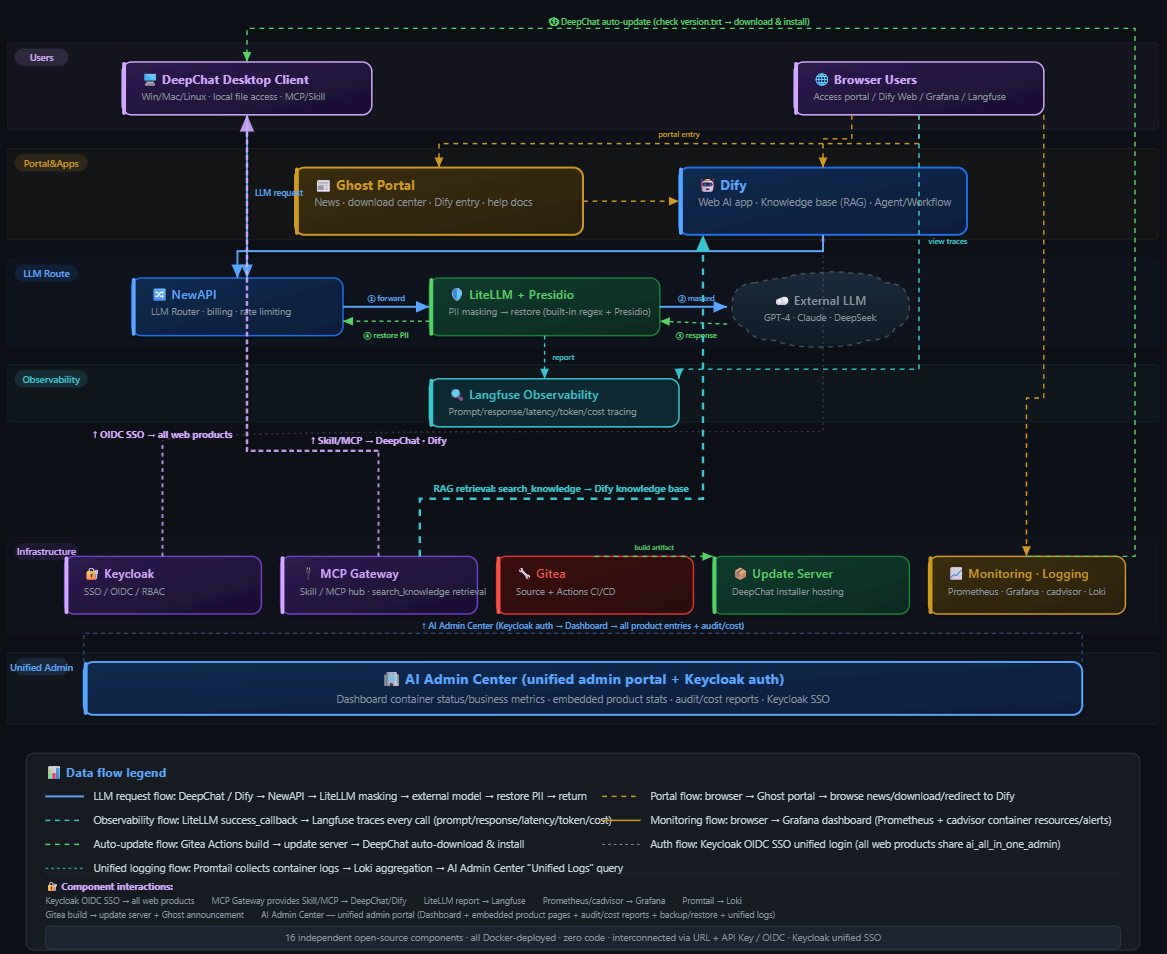
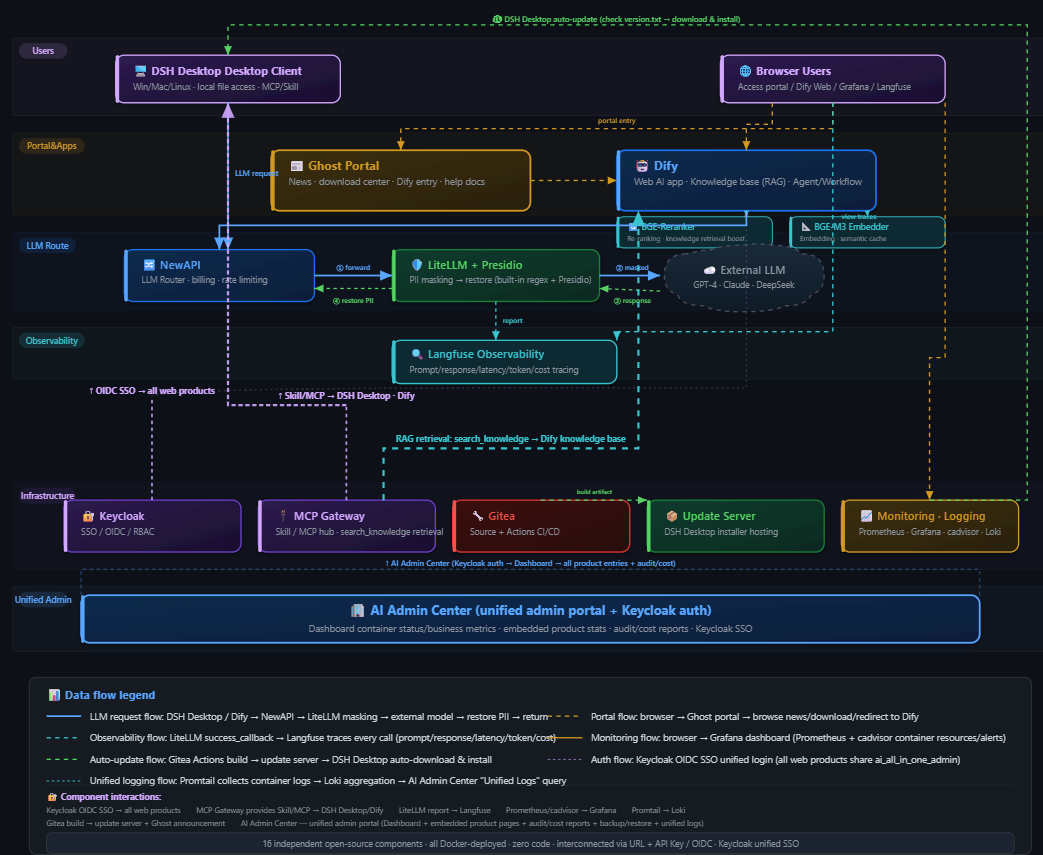
v1.07: BGE-Reranker + BGE-M3 Embedder, replace Ollama, update all docs

diff --git a/windows/windows-deploy-guide-v2.en.html b/windows/windows-deploy-guide-v2.en.html
@@ -210,10 +210,15 @@ When everything is done, run end-to-end tests: all containers Up, Keycloak SSO l
   <text x="720" y="183" fill="#58a6ff" font-size="14" font-weight="700">🤖 Dify</text>
   <text x="720" y="200" fill="#8b949e" font-size="11">Web AI app · Knowledge base (RAG) · Agent/Workflow</text>
   <!-- BGE-Reranker (Dify knowledge-base re-ranking) -->
-  <g filter="url(#sh)"><rect x="760" y="237" width="180" height="36" rx="8" fill="#0d2b33" stroke="#39c5cf" stroke-width="1"/><rect x="760" y="237" width="3" height="36" rx="2" fill="#39c5cf"/></g>
-  <text x="772" y="252" fill="#39c5cf" font-size="10" font-weight="600">🔄 BGE-Reranker</text>
-  <text x="772" y="265" fill="#8b949e" font-size="8">Re-ranking · knowledge retrieval boost</text>
+  <g filter="url(#sh)"><rect x="700" y="237" width="180" height="36" rx="8" fill="#0d2b33" stroke="#39c5cf" stroke-width="1"/><rect x="700" y="237" width="3" height="36" rx="2" fill="#39c5cf"/></g>
+  <text x="712" y="252" fill="#39c5cf" font-size="10" font-weight="600">🔄 BGE-Reranker</text>
+  <text x="712" y="265" fill="#8b949e" font-size="8">Re-ranking · knowledge retrieval boost</text>
   <path d="M 850 230 L 850 237" fill="none" stroke="#39c5cf" stroke-width="1" stroke-dasharray="3" marker-end="url(#at)"/>
+  <!-- BGE-M3 Embedder (semantic cache + KB vectorization) -->
+  <g filter="url(#sh)"><rect x="900" y="237" width="180" height="36" rx="8" fill="#0d2b33" stroke="#39c5cf" stroke-width="1"/><rect x="900" y="237" width="3" height="36" rx="2" fill="#39c5cf"/></g>
+  <text x="912" y="252" fill="#39c5cf" font-size="10" font-weight="600">📐 BGE-M3 Embedder</text>
+  <text x="912" y="265" fill="#8b949e" font-size="8">Embedding · semantic cache</text>
+  <path d="M 990 230 L 990 237" fill="none" stroke="#39c5cf" stroke-width="1" stroke-dasharray="3" marker-end="url(#at)"/>
 
   <!-- ====== Layer 3: LLM Routing ====== -->
   <g filter="url(#sh)"><rect x="130" y="275" width="220" height="60" rx="10" fill="url(#g-blue)" stroke="#1f6feb" stroke-width="1.5"/><rect x="130" y="275" width="4" height="60" rx="2" fill="#58a6ff"/></g>

diff --git a/windows/windows-deploy-guide-v2.html b/windows/windows-deploy-guide-v2.html
@@ -262,6 +262,16 @@
   <g filter="url(#sh)"><rect x="700" y="160" width="300" height="70" rx="10" fill="url(#g-blue)" stroke="#1f6feb" stroke-width="2"/><rect x="700" y="160" width="4" height="70" rx="2" fill="#58a6ff"/></g>
   <text x="720" y="183" fill="#58a6ff" font-size="14" font-weight="700">🤖 Dify</text>
   <text x="720" y="200" fill="#8b949e" font-size="11">Web AI 应用 · 知识库(RAG) · Agent/Workflow</text>
+  <!-- BGE-Reranker (Dify 知识库重排序) -->
+  <g filter="url(#sh)"><rect x="700" y="237" width="180" height="36" rx="8" fill="#0d2b33" stroke="#39c5cf" stroke-width="1"/><rect x="700" y="237" width="3" height="36" rx="2" fill="#39c5cf"/></g>
+  <text x="712" y="252" fill="#39c5cf" font-size="10" font-weight="600">🔄 BGE-Reranker</text>
+  <text x="712" y="265" fill="#8b949e" font-size="8">Rerank 重排序 · 知识库检索增强</text>
+  <path d="M 850 230 L 850 237" fill="none" stroke="#39c5cf" stroke-dasharray="3" stroke-width="1" marker-end="url(#at)"/>
+  <!-- BGE-M3 Embedder (语义缓存 + 知识库向量化) -->
+  <g filter="url(#sh)"><rect x="900" y="237" width="180" height="36" rx="8" fill="#0d2b33" stroke="#39c5cf" stroke-width="1"/><rect x="900" y="237" width="3" height="36" rx="2" fill="#39c5cf"/></g>
+  <text x="912" y="252" fill="#39c5cf" font-size="10" font-weight="600">📐 BGE-M3 Embedder</text>
+  <text x="912" y="265" fill="#8b949e" font-size="8">Embedding 向量化 · 语义缓存</text>
+  <path d="M 990 230 L 990 237" fill="none" stroke="#39c5cf" stroke-dasharray="3" stroke-width="1" marker-end="url(#at)"/>
 
   <!-- ====== Layer 3: LLM Routing ====== -->
   <g filter="url(#sh)"><rect x="130" y="275" width="220" height="60" rx="10" fill="url(#g-blue)" stroke="#1f6feb" stroke-width="1.5"/><rect x="130" y="275" width="4" height="60" rx="2" fill="#58a6ff"/></g>

diff --git a/windows/windows-deploy-guide-v2.md b/windows/windows-deploy-guide-v2.md
@@ -98,10 +98,15 @@
 <text fill="#58a6ff" font-size="14" font-weight="700" x="720" y="183">🤖 Dify</text>
 <text fill="#8b949e" font-size="11" x="720" y="200">Web AI 应用 · 知识库(RAG) · Agent/Workflow</text>
 <!-- BGE-Reranker (Dify 知识库重排序) -->
-<g filter="url(#sh)"><rect fill="#0d2b33" height="36" rx="8" stroke="#39c5cf" stroke-width="1" width="180" x="760" y="237"></rect><rect fill="#39c5cf" height="36" rx="2" width="3" x="760" y="237"></rect></g>
-<text fill="#39c5cf" font-size="10" font-weight="600" x="772" y="252">🔄 BGE-Reranker</text>
-<text fill="#8b949e" font-size="8" x="772" y="265">Rerank 重排序 · 知识库检索增强</text>
+<g filter="url(#sh)"><rect fill="#0d2b33" height="36" rx="8" stroke="#39c5cf" stroke-width="1" width="180" x="700" y="237"></rect><rect fill="#39c5cf" height="36" rx="2" width="3" x="700" y="237"></rect></g>
+<text fill="#39c5cf" font-size="10" font-weight="600" x="712" y="252">🔄 BGE-Reranker</text>
+<text fill="#8b949e" font-size="8" x="712" y="265">Rerank 重排序 · 知识库检索增强</text>
 <path d="M 850 230 L 850 237" fill="none" marker-end="url(#at)" stroke="#39c5cf" stroke-dasharray="3" stroke-width="1"></path>
+<!-- BGE-M3 Embedder (语义缓存 + 知识库向量化) -->
+<g filter="url(#sh)"><rect fill="#0d2b33" height="36" rx="8" stroke="#39c5cf" stroke-width="1" width="180" x="900" y="237"></rect><rect fill="#39c5cf" height="36" rx="2" width="3" x="900" y="237"></rect></g>
+<text fill="#39c5cf" font-size="10" font-weight="600" x="912" y="252">📐 BGE-M3 Embedder</text>
+<text fill="#8b949e" font-size="8" x="912" y="265">Embedding 向量化 · 语义缓存</text>
+<path d="M 990 230 L 990 237" fill="none" marker-end="url(#at)" stroke="#39c5cf" stroke-dasharray="3" stroke-width="1"></path>
 <!-- ====== Layer 3: LLM Routing ====== -->
 <g filter="url(#sh)"><rect fill="url(#g-blue)" height="60" rx="10" stroke="#1f6feb" stroke-width="1.5" width="220" x="130" y="275"></rect><rect fill="#58a6ff" height="60" rx="2" width="4" x="130" y="275"></rect></g>
 <text fill="#58a6ff" font-size="13" font-weight="600" x="150" y="297">🔀 NewAPI</text>
